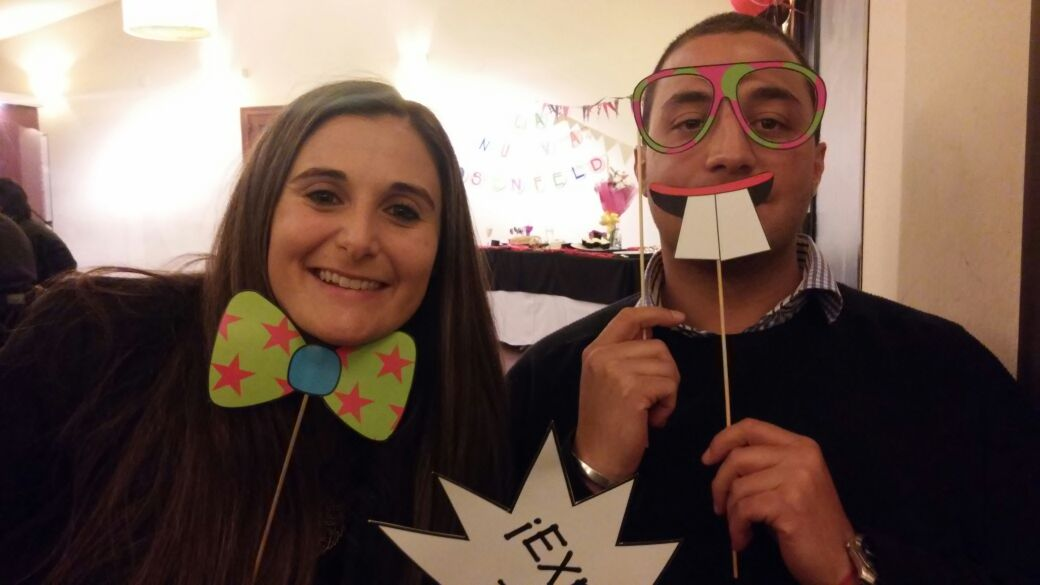
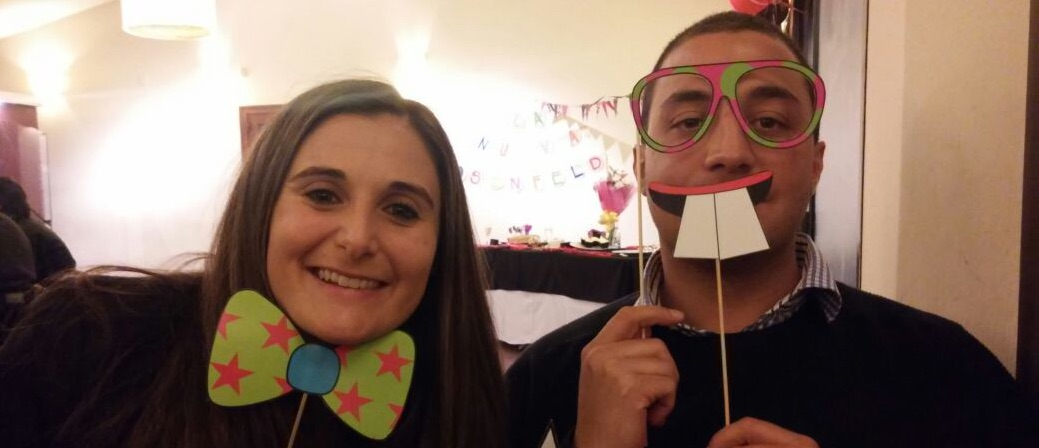
Changes to css and photos

diff --git a/css/theme.css b/css/theme.css
@@ -2772,7 +2772,7 @@ form iframe.mail-list-form {
 }
 .page-title-3,
 .page-title-4 {
-  height: 500px;
+  height: 240px;
 }
 .page-title-4 .breadcrumb {
   position: relative;
